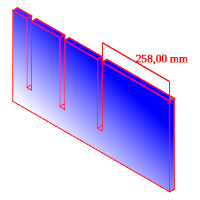
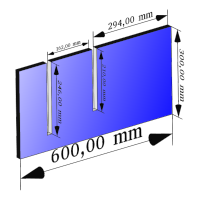
measurements quick shot & fixes

diff --git a/Tools/showMeasurements.py b/Tools/showMeasurements.py
@@ -1,0 +1,110 @@
+import FreeCAD, FreeCADGui
+import MagicPanels
+
+translate = FreeCAD.Qt.translate
+
+try:
+
+	objects = FreeCAD.ActiveDocument.Objects
+
+	# first remove all old measurements
+	removed = 0
+	for o in objects:
+		if hasattr(o, "Woodworking_Type"):
+			if o.Woodworking_Type == "Measurement":
+				if o.Woodworking_Remove == True:
+					FreeCAD.ActiveDocument.removeObject(str(o.Name))
+					removed = removed + 1
+
+	if len(objects) < 1:
+		raise
+
+	# refresh objects list if there was no measurements
+	if removed == 0:
+		
+		objects = FreeCAD.ActiveDocument.Objects
+		
+		# make sure there are objects to parse
+		if len(objects) < 1:
+			raise
+
+	# or if there was remove do nothing
+	else:
+		objects = []
+
+	# create new measurements
+	for o in objects:
+		
+		# skip complex objects
+		if not o.isDerivedFrom("Part::Box") and not o.isDerivedFrom("PartDesign::Pad"):
+			continue
+			
+		notSame = dict()
+		for e in o.Shape.Edges:
+			
+			# skip not regular edges
+			if not e.Curve.isDerivedFrom("Part::GeomLine"):
+				continue
+			
+			# show only new unique edges per object
+			key = str(e.Length)
+			if not key in notSame.keys():
+				
+				# get data
+				[ v1, v2 ] = MagicPanels.getEdgeVertices(e)
+				[ v1, v2 ] = MagicPanels.getVerticesPosition([ v1, v2 ], o, "array")
+				edgeIndex = MagicPanels.getEdgeIndex(o, e)
+				edgeName = "Edge"+str(edgeIndex)
+				index = edgeIndex - 1
+				
+				# show
+				m = MagicPanels.showMeasure(v1, v2, o, o, edgeName, edgeName, 4)
+				
+				# add remove attribute for next click
+				if not hasattr(m, "Woodworking_Remove"):
+					info = translate("showMeasurements", "Allows to remove this measurement after next tool icon press.")
+					m.addProperty("App::PropertyBool", "Woodworking_Remove", "Woodworking", info)
+					m.Woodworking_Remove = True
+
+				# add expressions and make it parametric
+				toMove = MagicPanels.getObjectToMove(o)
+				
+				exprSX = "<<" + str(toMove.Label) + ">>.Shape.Edges[" + str(index) + "].Vertex"+"es[0].X"
+				exprSY = "<<" + str(toMove.Label) + ">>.Shape.Edges[" + str(index) + "].Vertex"+"es[0].Y"
+				exprSZ = "<<" + str(toMove.Label) + ">>.Shape.Edges[" + str(index) + "].Vertex"+"es[0].Z"
+				
+				exprEX = "<<" + str(toMove.Label) + ">>.Shape.Edges[" + str(index) + "].Vertex"+"es[1].X"
+				exprEY = "<<" + str(toMove.Label) + ">>.Shape.Edges[" + str(index) + "].Vertex"+"es[1].Y"
+				exprEZ = "<<" + str(toMove.Label) + ">>.Shape.Edges[" + str(index) + "].Vertex"+"es[1].Z"
+				
+				try:
+					m.setExpression('.Start.x', exprSX)
+					m.setExpression('.Start.y', exprSY)
+					m.setExpression('.Start.z', exprSZ)
+					m.setExpression('.End.x', exprEX)
+					m.setExpression('.End.y', exprEY)
+					m.setExpression('.End.z', exprEZ)
+					
+					offsetX = m.Dimline.x - m.Start.x
+					offsetY = m.Dimline.y - m.Start.y
+					offsetZ = m.Dimline.z - m.Start.z
+					m.setExpression('.Dimline.x', '.Start.x + (' + str(offsetX) + ' mm )')
+					m.setExpression('.Dimline.y', '.Start.y + (' + str(offsetY) + ' mm )')
+					m.setExpression('.Dimline.z', '.Start.z + (' + str(offsetZ) + ' mm )')
+					
+				except:
+					skip = 1
+		
+				# mark already show
+				notSame[key] = 1
+			
+
+	FreeCAD.ActiveDocument.recompute()
+
+except:
+	
+	info = ""
+	
+	info += translate('showMeasurements', '<b>Please create at least one object to show measurements.</b><br><br><b>Note:</b> This tool allows you to quickly create or remove measurements for all simple objects. The objects that will be dimensioned are Part::Box and PartDesign::Pad. For each such object, the list of edges will be searched and all linear edges of various dimensions will be described with a measurement. The text size depends on the distance, so small dimensions like 18 mm thick may not be visible from a distance. This tool is a typical "quick shot" that allows you to quickly enable or disable measurements for objects. Because there are so many dimensions, it should be used primarily with magicView and primarily for X, Y, Z, or explode views. For each such measurement object there is special attribute named "Remove" set by default to True. So if you click the icon again such measurement will be removed. If you want to keep such measurement, just set this "Remove" attribute to False. Also the measurements created via this tool are parametric. So you can change views in magicView and the measurements will follow the changes.')
+
+	MagicPanels.showInfo("showMeasurements", info)

diff --git a/Tools/MagicPanels.py b/Tools/MagicPanels.py
@@ -4352,21 +4352,28 @@ def showMeasure(iP1, iP2, iObject1="", iObject2="", iSub1="", iSub2="", iType=8)
 		# create measurement object
 		distance = round(vectorStart.distanceToPoint(vectorEnd), gRoundPrecision)
 		m = Draft.make_linear_dimension(vectorStart, vectorEnd)
+		
+		try:
+			prefix = translate("showMeasure", "Measure") + ", "
+			m.Label = prefix + str(distance) + ", " + str(iObject1.Label) + " "
+		except:
+			skip = 1
+		
 		m.recompute()
 		
 		# set offset from object
 		offsetSize = distance / 9
-		o1Center = ""
-		o2Center = ""
-		try:
-			o1Center = iObject1.Shape.CenterOfGravity
-			o1Center = iObject1.Shape.CenterOfMass
-			o2Center = iObject2.Shape.CenterOfGravity
-			o2Center = iObject2.Shape.CenterOfMass
-		except:
-			skip = 1
 		
-		if o1Center != "" and o2Center != "":
+		# try to set iObject1
+		o1Center = ""
+		if hasattr(iObject1.Shape, "CenterOfMass"):
+			o1Center = iObject1.Shape.CenterOfMass
+		else:
+			if hasattr(iObject1.Shape, "CenterOfGravity"):
+				o1Center = iObject1.Shape.CenterOfGravity
+		
+		# try to position text only if there is access to center of the first selected object
+		if o1Center != "":
 			
 			plane = getVectorsPlane(vectorStart, vectorEnd)
 			
@@ -4491,25 +4498,25 @@ def showMeasure(iP1, iP2, iObject1="", iObject2="", iSub1="", iSub2="", iType=8)
 	
 	# set show attribute for cut-list
 	if not hasattr(m, "Woodworking_BOM"):
-		info = translate("MagicPanels", "Allows to skip measurement at BOM, cut-list report.")
+		info = translate("showMeasure", "Allows to skip measurement at BOM, cut-list report.")
 		m.addProperty("App::PropertyBool", "Woodworking_BOM", "Woodworking", info)
 		m.Woodworking_BOM = True
 
 	# set correct object type
 	if not hasattr(m, "Woodworking_Type"):
-		info = translate("MagicPanels", "Measurement object type.")
+		info = translate("showMeasure", "Measurement object type.")
 		m.addProperty("App::PropertyString", "Woodworking_Type", "Woodworking", info)
 		m.Woodworking_Type = "Measurement"
 
 	# set reference for selection 1
 	if not hasattr(m, "Woodworking_Ref1"):
-		info = translate("MagicPanels", "Reference for selection 1.")
+		info = translate("showMeasure", "Reference for selection 1.")
 		m.addProperty("App::PropertyString", "Woodworking_Ref1", "Woodworking", info)
 		m.Woodworking_Ref1 = ref1
 	
 	# set reference for selection 2
 	if not hasattr(m, "Woodworking_Ref2"):
-		info = translate("MagicPanels", "Reference for selection 2.")
+		info = translate("showMeasure", "Reference for selection 2.")
 		m.addProperty("App::PropertyString", "Woodworking_Ref2", "Woodworking", info)
 		m.Woodworking_Ref2 = ref2
 

diff --git a/loadTools.py b/loadTools.py
@@ -4303,6 +4303,45 @@ FreeCADGui.addCommand("showOccupiedSpace", showOccupiedSpace())
 
 	
 # ######################################################################################################################
+class showMeasurements():
+
+	def GetResources(self):
+		return {"Pixmap"  : os.path.join(iconPath, "showMeasurements.png"),
+				"MenuText": QT_TRANSLATE_NOOP("showMeasurements", "showMeasurements, shows edges dimensions for all objects"),
+				"ToolTip" : QT_TRANSLATE_NOOP("showMeasurements", "Click to see info."),
+				"Accel"   : "" }
+
+	def Activated(self):
+
+		import os, sys
+		import fakemodule
+
+		modulePath = sys.path
+		
+		module = "showMeasurements"
+		
+		path = os.path.dirname(fakemodule.__file__)
+		path = os.path.join(path, "Tools")
+		
+		sys.path.append(path)
+
+		if module in sys.modules:
+			del sys.modules[module]
+
+		__import__(module, globals(), locals(), [], 0)
+		
+		sys.path = modulePath
+
+		return
+
+	def IsActive(self):
+		# not needed now, maybe in the future
+		return True
+
+FreeCADGui.addCommand("showMeasurements", showMeasurements())
+
+	
+# ######################################################################################################################
 class magicMeasure():
 
 	def GetResources(self):

diff --git a/loadToolsSettings.py b/loadToolsSettings.py
@@ -211,6 +211,7 @@ Tools = [
 	"getDimensions", "png", "getDimensions, to create cut-list and BOM", "Creates spreadsheet with dimensions to cut.",
 	"sheet2export", "png", "sheet2export, to export cut-list", "Exports spreadsheet to chosen file format.",
 	"showOccupiedSpace", "png", "showOccupiedSpace, show occupied space", "This tool allows you to calculate the overall occupied space in 3D by the selected parts or whole model, if nothing is selected.",
+	"showMeasurements", "png", "showMeasurements, shows edges dimensions for all objects", "Click to see info.",
 	"magicMeasure", "png", "magicMeasure, custom measurement", "Quick measurement preview on hover or by selection.",
 
 	# #################################################################################################################################

diff --git a/loadToolbar.py b/loadToolbar.py
@@ -96,6 +96,7 @@ def getItems(iType):
 			"Std_Print",
 			"sheet2export",
 			"showOccupiedSpace",
+			"showMeasurements",
 			"magicMeasure"
 		]
 

diff --git a/Docs/README.md b/Docs/README.md
@@ -73,6 +73,7 @@ I added many tools, and now Woodworking workbench has so many features and simpl
 		* [Video tutorials & Documentation](#video-tutorials-&-documentation)
 	* [sheet2export](#sheet2export)
 	* [showOccupiedSpace](#showoccupiedspace)
+	* [showMeasurements](#showmeasurements)
 	* [magicMeasure](#magicmeasure)
 * [Decoration](#decoration)
 	* [magicColors](#magiccolors)
@@ -173,6 +174,7 @@ I added many tools, and now Woodworking workbench has so many features and simpl
 
 	**New significant changes since the last release 1.0 stable:**
 
+    * quick shot to show or hide measurements (showMeasurements)
     * arrange icons to fit to laptop screen 
     * magicView offset resize for better TechDraw export (magicView)
     * magicGlue label fix (magicGlue)
@@ -1050,6 +1052,12 @@ By default the values at report are rounded to have more clear listing. Rounding
 <img align="right" width="200" height="200" src="https://raw.githubusercontent.com/dprojects/Woodworking/master/Icons/showOccupiedSpace.png"> This tool allows you to calculate the overall occupied space in 3D by the selected parts or whole model, if nothing is selected. This approach might be very useful at furniture designing process. For example you can see how much space in your room will take opened front of the furniture or how much space take selected parts of the furniture. Normally, all the `Pad` or `Cube` elements, should be created according to the `XYZ` plane, so there will be no difference between the real dimensions and occupied space in 3D.
 
 <br><br><br>
+
+## showMeasurements
+
+<img align="right" width="200" height="200" src="https://raw.githubusercontent.com/dprojects/Woodworking/master/Icons/showMeasurements.png"> This tool allows you to quickly create or remove measurements for all simple objects. The objects that will be dimensioned are `Part :: Box` and `PartDesign :: Pad`. For each such object, the list of edges will be searched and all linear edges of various dimensions will be described with a measurement. The text size depends on the distance, so small dimensions like `18 mm` thick may not be visible from a distance. This tool is a typical **quick shot** that allows you to quickly enable or disable measurements for objects. Because there are so many dimensions, it should be used primarily with [magicView](#magicview) and primarily for `X`, `Y`, `Z`, or `explode` views. For each such measurement object there is special attribute named `Remove` set by default to `True`. So if you click the icon again such measurement will be removed. If you want to keep such measurement, just set this `Remove` attribute to `False`. Also the measurements created via this tool are parametric. So you can change views in [magicView](#magicview) and the measurements will follow the changes.
+
+<br><br>
 
 ## magicMeasure
 
